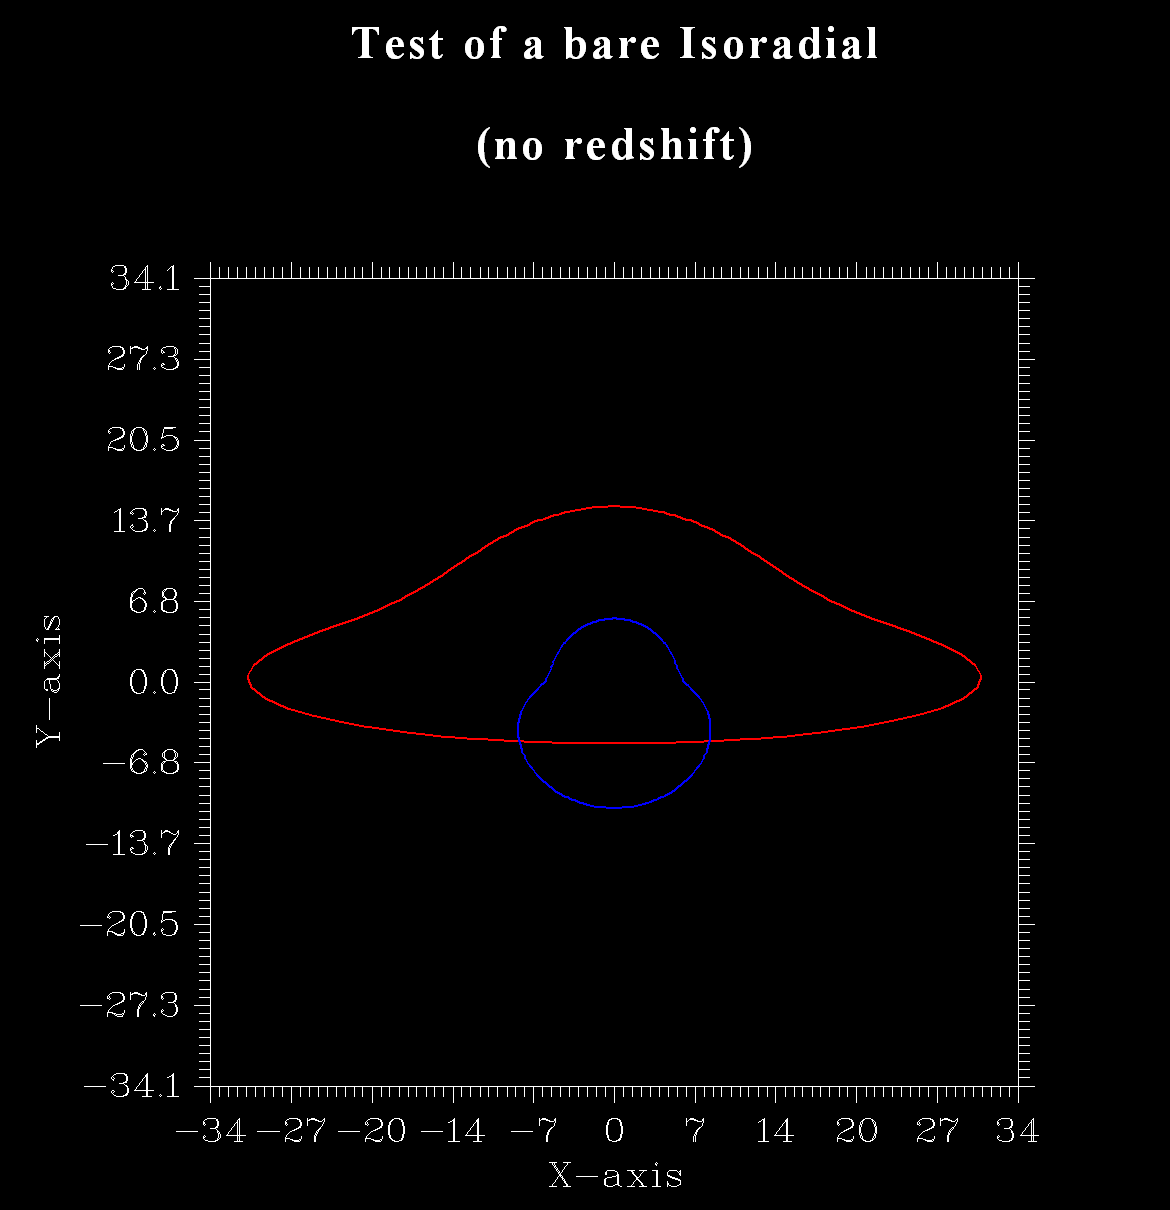
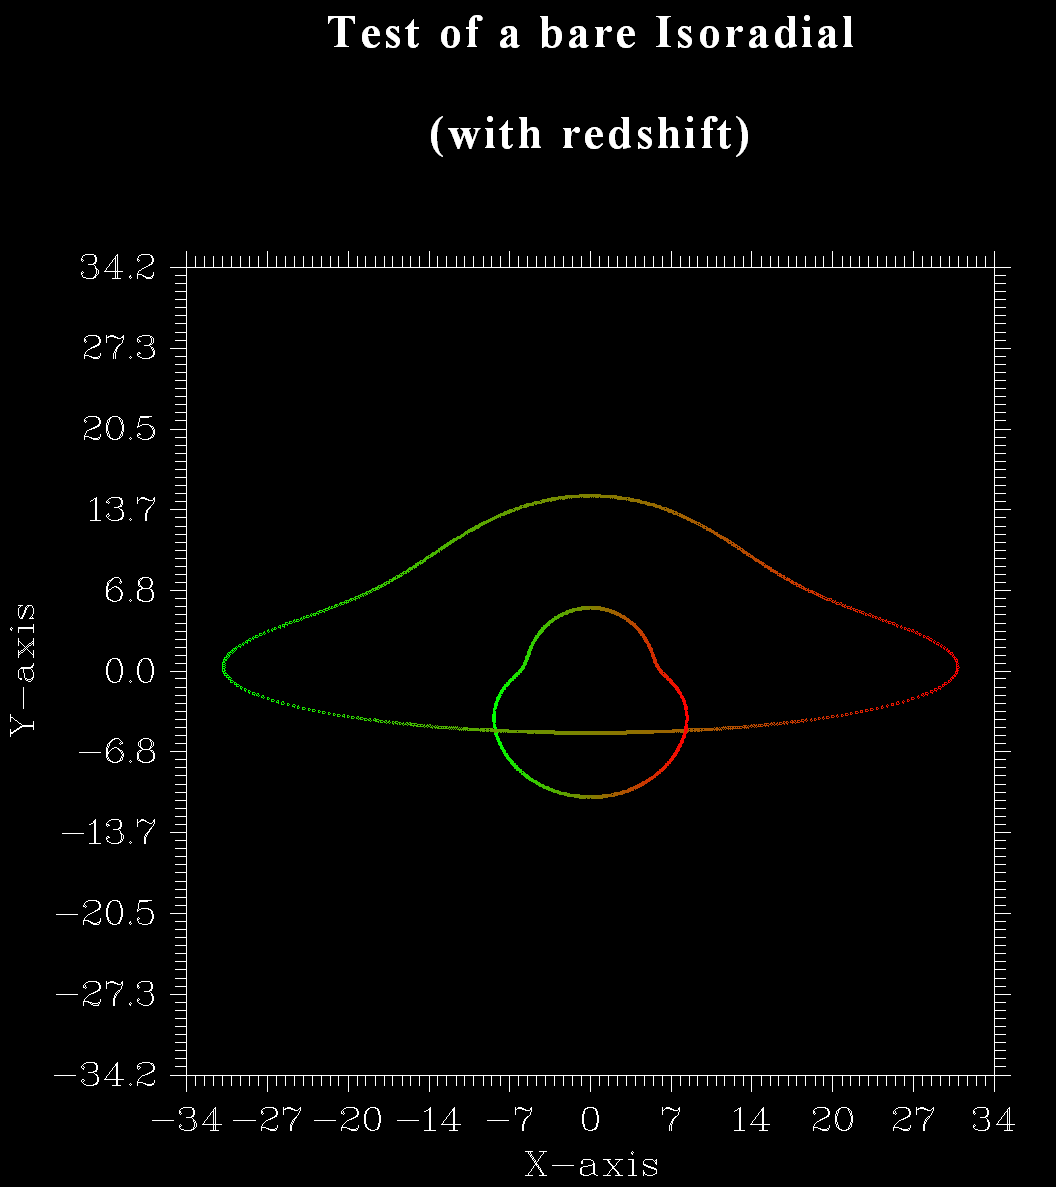
s

diff --git a/Source/main.cpp b/Source/main.cpp
@@ -1,23 +1,30 @@
 //Unoffial C++ version of Luminet project of bgmeulem
 //https://github.com/bgmeulem/Luminet/
 
-
 #include "BlackHole.h"
 #include "BlackHolePhysics.h"
 #include <discpp.h>
+/*
+************************************************************************************************************************************
+The plotting i not optimzed and temporarely housed in the main().
+************************************************************************************************************************************
+*/
+void plot_IR(std::vector<double>&, std::vector<double>&, std::vector<double>&, std::vector<double>&);//forward declaration Isoradials
+void plot_RS(std::vector<double>&, std::vector<double>&, std::vector<double>&, std::vector<double>&, std::vector<double>&, std::vector<double>&);
 
-void plot_IR(std::vector<double>&, std::vector<double>&, std::vector<double>&, std::vector<double>&);
+// Function to convert a value to RGB format
+std::vector<std::tuple<double, double, double> >convertToRGB(std::vector<double>);
+std::vector<double> normalize_vector(std::vector<double>);
 int main() {
-	
 	BHphysics BHp;
 
 	// Test the translated functions
 	double periastron = 30.;// provide periastron value ;
-		double bh_mass = 1.;// provide black hole mass value
-	double radius = 100.0 * bh_mass;// 20. provide radius value 
+	double bh_mass = 1.;// provide black hole mass value
+	double radius = 100.0 * bh_mass;// 20. provide radius value
 	double angle = 20.;//provide angle value ;
 	double incl = 76.;// provide inclination value ;
-	double acc = 5.;// provide accretion value 
+	double acc = 5.;// provide accretion value
 	double redshift_factor = 2.;// provide redshift factor ;
 	double b_ = 1.0;// provide b_ value ;
 
@@ -40,37 +47,39 @@ int main() {
 	std::cout << "Result flux_observed: " << result_flux_observed << std::endl;
 	std::cout << "Result result_redshift_factor: " << result_redshift_factor << std::endl;
 
-
 	//Test data reading
 	BlackHole BH(bh_mass);
 	BH.sample_Sources(20000);// , "D:/dev/Cpp/Luminet/Points/points_incl=85b.csv", "D:/dev/Cpp/Luminet/Points/points_secondary_incl=85b.csv");
 	*/
 	//test single isoradial
-	double inclination =80.0;//in degrees
+	double inclination = 80.0;//in degrees
 	double distance = 30.0;
-	Isoradial IR(distance *bh_mass, inclination *M_PI/180, bh_mass,0);
+	Isoradial IR(distance * bh_mass, inclination * M_PI / 180, bh_mass, 0);
 	IR.calculate();
 	Isoradial IRg(distance * bh_mass, inclination * M_PI / 180, bh_mass, 1);//ghost
 	IRg.calculate();
-	std::pair<std::vector<double>, std::vector<double>> bare_isoradials= IR.get_bare_isoradials();//temporary functions for debugging
+	std::pair<std::vector<double>, std::vector<double>> bare_isoradials = IR.get_bare_isoradials();//temporary functions for debugging
 	std::vector<double> xx = std::get<0>(bare_isoradials);
 	std::vector<double> yy = std::get<1>(bare_isoradials);
 	std::pair<std::vector<double>, std::vector<double>> bare_ghost_isoradials = IRg.get_bare_isoradials();//temporary functions for debugging
 	std::vector<double> xx_ghost = std::get<0>(bare_ghost_isoradials);
 	std::vector<double> yy_ghost = std::get<1>(bare_ghost_isoradials);
+	std::vector<double> redshift_factors = IR.get_redshift_factors();
+	std::vector<double> redshift_factors_ghost = IRg.get_redshift_factors();
 	/*std::cout << std::endl << std::endl << std::endl << "Passed to main with size " << xx.size() << std::endl;
 	for (size_t i = 0; i < xx.size(); i++) {
 		std::cout << i << "):  (x, y) = (" << xx[i] << ", " << yy[i] << ")" << std::endl;
 	}*/
-	plot_IR(xx, yy, xx_ghost,yy_ghost);
+	//plot_IR(xx, yy, xx_ghost,yy_ghost);
+	plot_RS(xx, yy, xx_ghost, yy_ghost, redshift_factors, redshift_factors_ghost);
 
 	return 0;
 }
 
 void plot_IR(std::vector<double>& xx, std::vector<double>& yy, std::vector<double>& xx_g, std::vector<double>& yy_g) {
 	Dislin g;
-	int n =xx.size();
-	
+	int n = xx.size();
+
 	//double xray[400], yray[400];
 
 	double x_max = -10000000000.0;
@@ -78,7 +87,7 @@ void plot_IR(std::vector<double>& xx, std::vector<double>& yy, std::vector<doubl
 	double y_max = -10000000000.0;
 	double y_min = 10000000000.0;
 	/*
-	
+
 	int n = 400;
 	for (unsigned i = 0; i < n; i++)
 	{
@@ -123,12 +132,11 @@ void plot_IR(std::vector<double>& xx, std::vector<double>& yy, std::vector<doubl
 	g.titlin("Test of a bare Isoradial", 1);
 	g.titlin("(no redshift)", 3);
 
-
 	//int ic = g.intrgb(0.95, 0.95, 0.95);
 	int ic = g.intrgb(0., 0., 0.);
 	g.axsbgd(ic);
 
-	g.graf(x_min, x_max, x_min, (x_max-x_min)/10, y_min, y_max, y_min,  (y_max - y_min) / 10);
+	g.graf(x_min, x_max, x_min, (x_max - x_min) / 10, y_min, y_max, y_min, (y_max - y_min) / 10);
 	//g.setrgb(0.7, 0.7, 0.7);
 	g.setrgb(0.0, 0.0, 0.0);
 	g.grid(1, 1);
@@ -147,4 +155,102 @@ void plot_IR(std::vector<double>& xx, std::vector<double>& yy, std::vector<doubl
 	g.curve(&xx_g[0], &yy_g[0], n);
 
 	g.disfin();
+}
+
+void plot_RS(std::vector<double>& xx, std::vector<double>& yy, std::vector<double>& xx_g, std::vector<double>& yy_g, std::vector<double>& rs, std::vector<double>& rs_g) {
+	Dislin g;
+	int n = xx.size();
+
+	// Vector to store RGB color values
+	std::vector<std::tuple<double, double, double>> rgbVector = convertToRGB(normalize_vector(rs));
+	std::vector<std::tuple<double, double, double>> rgbVector_g = convertToRGB(normalize_vector(rs_g));
+
+	double x_max = -10000000000.0;
+	double x_min = 10000000000.0;
+	double y_max = -10000000000.0;
+	double y_min = 10000000000.0;
+
+	for (unsigned i = 0; i < n; i++)
+	{
+		if (xx[i] <= x_min)x_min = xx[i];
+		if (xx[i] >= x_max)x_max = xx[i];
+		if (yy[i] <= y_min)y_min = yy[i];
+		if (yy[i] > y_max)y_max = yy[i];
+	}
+	x_max *= 1.1;
+	x_min *= 1.1;
+	y_max *= 1.1;
+	y_min *= 1.1;
+	if (x_max < y_max)x_max = y_max;
+	if (x_min < y_min)y_min = x_min;
+	if (x_max > y_max)y_max = x_max;
+	if (x_min > y_min)x_min = y_min;
+
+	g.metafl("cons");
+	//g.scrmod("revers");
+	g.disini();
+	g.pagera();
+	g.complx();
+	g.axspos(450, 1800);
+	g.axslen(1200, 1200);
+
+	g.name("X-axis", "x");
+	g.name("Y-axis", "y");
+
+	g.labdig(-1, "x");
+	g.ticks(9, "x");
+	g.ticks(10, "y");
+
+	g.titlin("Test of a bare Isoradial", 1);
+	g.titlin("(with redshift)", 3);
+
+	//int ic = g.intrgb(0.95, 0.95, 0.95);
+	int ic = g.intrgb(0., 0., 0.);
+	g.axsbgd(ic);
+
+	g.graf(x_min, x_max, x_min, (x_max - x_min) / 10, y_min, y_max, y_min, (y_max - y_min) / 10);
+	//g.setrgb(0.7, 0.7, 0.7);
+	g.setrgb(0.0, 0.0, 0.0);
+	g.grid(1, 1);
+	g.winfnt("Times New Roman Bold");
+	//g.psfont("Courier-Bold");
+	g.color("fore");
+	g.height(50);
+	g.title();
+	// Set the color map based on the color parameter
+	for (size_t i = 0; i < n; i++) {
+		g.setrgb(std::get<0>(rgbVector[i]), std::get<1>(rgbVector[i]), std::get<2>(rgbVector[i]));
+		g.rlcirc(xx[i], yy[i], 0.1);
+		g.setrgb(std::get<0>(rgbVector_g[i]), std::get<1>(rgbVector_g[i]), std::get<2>(rgbVector_g[i]));
+		g.rlcirc(xx_g[i], yy_g[i], 0.1);
+	}
+
+	g.disfin();
+}
+
+// Function to normalize the redshift in a range 0 to 100
+//stretches it by taking the span of min and max
+std::vector<double> normalize_vector(std::vector<double> avector) {
+	std::vector<double> normalized_vector;
+	double max_rs = *std::max_element(std::begin(avector), std::end(avector));
+	double min_rs = *std::min_element(std::begin(avector), std::end(avector));
+	for (auto value : avector) {
+		value = 100*(value-min_rs)/ (max_rs-min_rs);
+		//std::cout << value << std::endl;
+		normalized_vector.push_back(value);
+	}
+	return normalized_vector;
+}
+
+// Function to convert a value to RGB format
+std::vector<std::tuple<double, double, double> >convertToRGB(std::vector<double> avector) {
+	std::vector<std::tuple<double, double, double> > colors;
+	for (size_t i = 0; i < avector.size(); i++) {
+		// Map the value to the RGB range
+		double red = (avector[i]) / 100.;
+		double green = (100 - avector[i]) / 100;
+		double blue = 0.0;
+		colors.push_back(std::make_tuple(red, green, blue));
+	}
+	return colors;
 }

diff --git a/Source/IsoRadials.cpp b/Source/IsoRadials.cpp
@@ -49,7 +49,11 @@ std::pair<std::vector<double>, std::vector<double>> Isoradial::get_bare_isoradia
 
 	return OperatorsOrder2::polar_to_cartesian_lists(std::get<1>(bare_isoradials), std::get<0>(bare_isoradials),-M_PI/2);
 }
+std::vector<double>  Isoradial::get_redshift_factors() {
 
+	return redshift_factors;
+
+}
 
 /*
 * **************Necessary?
@@ -139,15 +143,17 @@ std::vector<double> Isoradial::calc_redshift_factors() {
 Calculates the redshift factor (1 + z) over the line of the isoradial
  ----------------------------------------------------------------------------------------------------------------
  */
- /*std::vector<double> redshift_factors_;
- for (int i = 0; i < radii_b.size(); ++i) {
-	 double redshift = BHphysics::redshift_factor(radius, angles[i], t, M, radii_b[i]);
+ std::vector<double> redshift_factors_;
+ std::cout << "redshiftfactors " << std::endl;
+ std::cout << "********************************* " << std::endl;
+ for (int i = 0; i < _radii_b.size(); ++i) {
+	 double redshift = BHphysics::redshift_factor(radius, _angles[i], theta_0, M, _radii_b[i]);
+	 //std::cout << i << "i): " << redshift << std::endl;
 	 redshift_factors_.push_back(redshift);
  }
  redshift_factors = redshift_factors_;
- return redshift_factors_;*/
-	std::vector<double> a;
-	return a;
+ return redshift_factors_;
+
 }
 /*
 ----------------------------------------------------------------------------------------------------------------
@@ -162,7 +168,7 @@ void Isoradial::calculate() {
 	/*for (int i = 0; i < angles.size(); i++) {
 		std::cout << i << "):  angle and radius = (" << angles[i] << ", " << radii_b[i] << ")" << std::endl;
 	}*/
-	//calc_redshift_factors();
+	std::vector<double> redshift_factors_=calc_redshift_factors();
 }
 /*
 ----------------------------------------------------------------------------------------------------------------

diff --git a/Include/IsoRadials.h b/Include/IsoRadials.h
@@ -17,7 +17,9 @@ public:
 	Isoradial(double radius, double incl, double bh_mass, int order, angular_properties);
 	//Isoradial(const std::vector<double>& angles, const std::vector<double>& radius_b);
 	std::pair<std::vector<double>, std::vector<double>> get_bare_isoradials();
-	//std::pair<std::vector<double>, std::vector<double>> get_bare_ghost_isoradials();
+	std::vector<double> get_redshift_factors();
+	void calculate();
+
 
 private://variables
 	double M;  // mass of the black hole containing this isoradial
@@ -27,20 +29,18 @@ private://variables
 	struct params {
 		std::string param = "isoradial_solver_parameters";
 	};
-
-	
-	std::vector<double> redshift_factors;
+		
+	std::vector<double> redshift_factors;//TO DO: pack isoradials and redshift
 	std::tuple<std::vector<double>, std::vector<double>> cartesian_co;
 	std::pair<std::vector<double>, std::vector<double>> bare_isoradials;//TEMPORARY for debugging: holds the polar coordinates (angles, radii) of the projected isoradial
-	//std::pair<std::vector<double>, std::vector<double>> bare_ghost_isoradials;//TEMPORARY for debugging: holds the polar coordinates (angles, radii) of the projected isoradial
-
+	
 private://methods
 
 public://methods
 
 	std::pair<std::vector<double>, std::vector<double>> calculate_coordinates();
 	std::vector<double> calc_redshift_factors();
-	void calculate();
+	
 	std::vector<double> find_angle(double z);
 	double get_b_from_angle(double angle);
 	void calc_between(int ind);

diff --git a/Include/utilities.h b/Include/utilities.h
@@ -33,14 +33,14 @@ struct irs_solver_params {
 struct angular_properties {
 	double start_angle = 0.0;
 	double end_angle = M_PI;
-	unsigned angular_precision = 100;
+	unsigned angular_precision = 500;
 	bool mirror = true;
 };
 
 struct ir_params {
 	double start_angle = 0.0;
 	double	end_angle = M_PI;
-	unsigned angular_precision = 100;
+	unsigned angular_precision = 500;
 	bool	mirror = true;// if True, calculates only half of the isoradial and mirrors it
 	double angular_margin = 0.3;
 };
